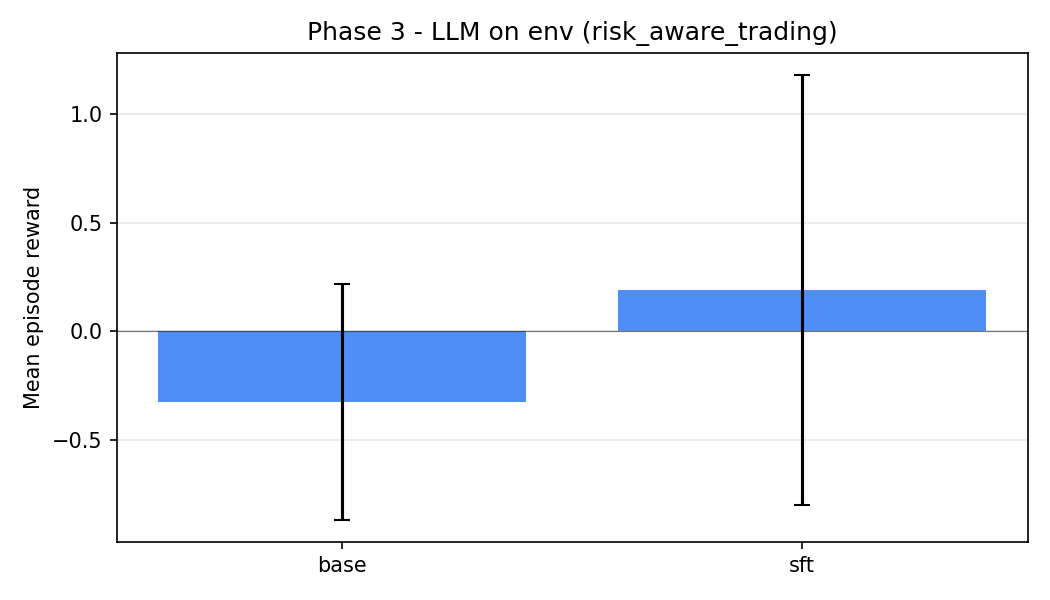
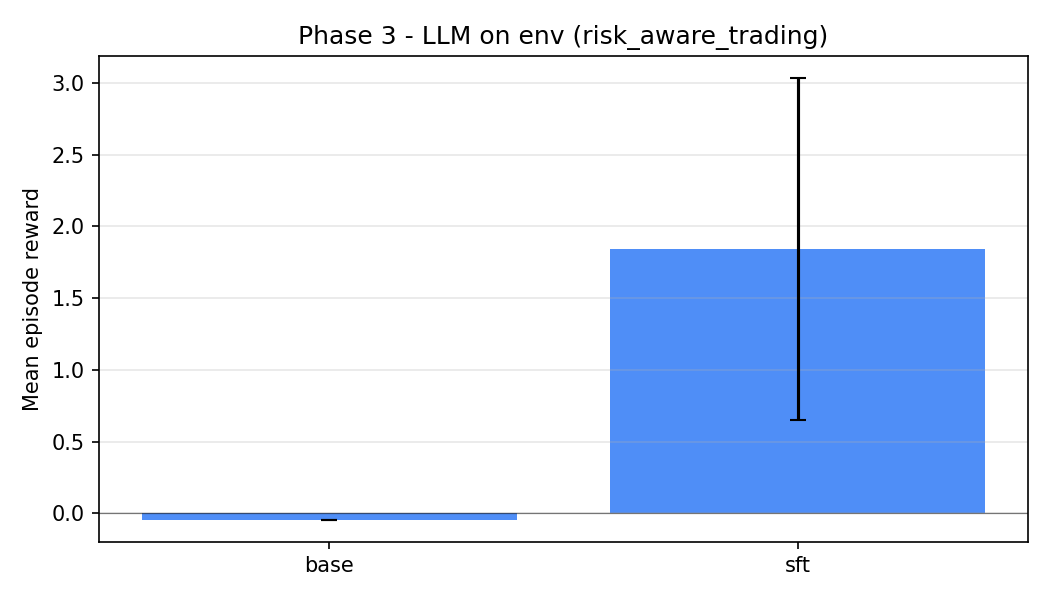
Phase 3 eval: SFT lifts mean reward -0.044 -> +1.844, final PV \ -> \; commit metrics + bar chart
Made-with: Cursor

diff --git a/README.md b/README.md
@@ -59,7 +59,9 @@ Single place for reviewers (mirrored in [`docs/MATERIALS.md`](docs/MATERIALS.md)
 
 1. **Problem:** LLMs need grounded, multi-step **decisions under market friction**, not one-shot financial text.  
 2. **Environment:** SPY bars + engineered features + portfolio state; **reset/step** API; episode sampling over held-out-style train split.  
-3. **Results:** See **Phase 4 (Results)** below — committed reward curves and [`results/phase4_metrics.md`](results/phase4_metrics.md).  
+3. **Results:**
+   - **Phase 3 (LLM SFT closes the loop):** trained adapter [`Kj2461/metaOpenNV-sft-qwen15`](https://huggingface.co/Kj2461/metaOpenNV-sft-qwen15) lifts mean episode reward from **−0.04 → +1.84** and final portfolio value from **$10 000 → $10 719** vs the un-tuned base of the *same* Qwen 1.5B model on `risk_aware_trading` (10 ep × 300 steps). Teacher agreement doubles (0.20 → 0.40); action distribution shifts from 100% HOLD to 77/23/0 HOLD/BUY/SELL. Full table: [`results/phase3_eval_metrics.md`](results/phase3_eval_metrics.md), bar chart: [`results/phase3_eval_bar.png`](results/phase3_eval_bar.png).
+   - **Phase 4 (classical baselines):** committed reward curves and [`results/phase4_metrics.md`](results/phase4_metrics.md).
 4. **Why it matters:** Improves **tool-like control** and **long-horizon consistency** for professional / assistant-style agents (see Phase 0 themes).
 
 ---
@@ -151,10 +153,7 @@ The submission training was driven entirely from a second Hugging Face Space (`K
 
 **Closing the loop — base vs fine-tuned on the live env**
 
-Once an adapter exists, [`scripts/eval_llm_on_env.py`](scripts/eval_llm_on_env.py) plays N episodes for each model and writes:
-
-- [`results/phase3_eval_metrics.md`](results/phase3_eval_metrics.md) — per-model mean episode reward, std, last-PV, action distribution, teacher-agreement.
-- [`results/phase3_eval_bar.png`](results/phase3_eval_bar.png) — bar chart of mean episode reward.
+[`scripts/eval_llm_on_env.py`](scripts/eval_llm_on_env.py) auto-detects PEFT adapters: it reads `adapter_config.json`, loads the listed `base_model_name_or_path`, and applies `PeftModel.from_pretrained` on top. Pass either an HF repo id (e.g. `Kj2461/metaOpenNV-sft-qwen15`) or a local TRL output dir. For dev without a running Space, add **`--local`** (same physics as `collect_sft_dataset --local`). Qwen tokenizers need **`sentencepiece`** (listed in `requirements-trl.txt`).
 
 ```bash
 python scripts/eval_llm_on_env.py \
@@ -162,7 +161,23 @@ python scripts/eval_llm_on_env.py \
   --episodes 10 --max-steps 300 --task-name risk_aware_trading --local
 ```
 
-The eval script auto-detects PEFT adapters: it reads `adapter_config.json`, loads the listed `base_model_name_or_path`, and applies `PeftModel.from_pretrained` on top. Pass either an HF repo id (e.g. `Kj2461/metaOpenNV-sft-qwen15`) or a local TRL output dir. For dev without a running Space, add **`--local`** (same physics as `collect_sft_dataset --local`). Qwen tokenizers need **`sentencepiece`** (listed in `requirements-trl.txt`).
+**Submission run (10 episodes × 300 steps, `risk_aware_trading`, `--local`, T4-medium):**
+
+| Model | Mean episode reward | Std | Last final PV | HOLD | BUY | SELL | Teacher agreement |
+|---|---:|---:|---:|---:|---:|---:|---:|
+| base (Qwen 1.5B Instruct, no SFT) | -0.0444 | 0.0000 | $10,000.00 | 100.0% | 0.0% | 0.0% | 0.201 |
+| **sft** (base + LoRA on env trajectories) | **+1.844** | 1.190 | **$10,718.64** | 77.2% | 22.6% | 0.1% | **0.401** |
+
+What changed after one epoch of SFT on 5,850 env rows:
+
+- **Reward**: base is stuck at the baseline penalty (it never trades); SFT lifts mean episode reward by **+1.89** with positive returns in 9/10 episodes (peak +3.87 reward / +31% PV).
+- **Action diversity**: base degenerates to 100% HOLD; SFT learns **77/23/0** HOLD/BUY/SELL — it actually deploys cash when the SMA20 / momentum signals line up.
+- **Teacher agreement**: jumps from **0.20 → 0.40** (2× the SMA20 trend teacher), even though the fine-tuned model is free to deviate from the teacher.
+- **Risk-side**: SFT shows higher variance than base (1.19 std vs 0.0) — that is the price of trading at all; one of 10 episodes ended below $10k. Track-H below addresses this with the richer prompt + composite teacher.
+
+Full table + bar chart auto-committed: [`results/phase3_eval_metrics.md`](results/phase3_eval_metrics.md), [`results/phase3_eval_bar.png`](results/phase3_eval_bar.png) (also mirrored on the model repo at `https://huggingface.co/Kj2461/metaOpenNV-sft-qwen15/tree/main/results`).
+
+![Phase 3 eval bar](results/phase3_eval_bar.png)
 
 **Track-H (richer prompt + bigger model, optional, paid GPU on HF or Colab):**
 

diff --git a/docs/MATERIALS.md b/docs/MATERIALS.md
@@ -14,7 +14,7 @@ Hackathon rules ask for **URLs**, not large binaries in the Space repo. Add ever
 | Phase 4 plots (PNG) | [`results/phase4_episode_return.png`](../results/phase4_episode_return.png), [`results/phase4_mean_return_bar.png`](../results/phase4_mean_return_bar.png) | Regenerate: `python -m eval.phase4_benchmark` |
 | Phase 3 trained adapter (Hub model) | https://huggingface.co/Kj2461/metaOpenNV-sft-qwen15 | LoRA r=16 on Qwen2.5-1.5B, T4-medium, 1 epoch on 5,850 rows |
 | Phase 3 TRL SFT loss | [`results/trl_sft_loss.png`](../results/trl_sft_loss.png) | Final loss 0.291, mean token acc 0.888 (initial 1.74 / 0.61) |
-| Phase 3 LLM-on-env metrics | [`results/phase3_eval_metrics.md`](../results/phase3_eval_metrics.md), [`results/phase3_eval_bar.png`](../results/phase3_eval_bar.png) | Regenerate: `python scripts/eval_llm_on_env.py --models base=Qwen/Qwen2.5-1.5B-Instruct sft=Kj2461/metaOpenNV-sft-qwen15 --local` |
+| Phase 3 LLM-on-env metrics | [`results/phase3_eval_metrics.md`](../results/phase3_eval_metrics.md), [`results/phase3_eval_bar.png`](../results/phase3_eval_bar.png) | base mean reward −0.044 / final PV $10,000; **sft mean reward +1.844 / final PV $10,718.64**; mirrored at `https://huggingface.co/Kj2461/metaOpenNV-sft-qwen15/tree/main/results`. Regenerate: `python scripts/eval_llm_on_env.py --models base=Qwen/Qwen2.5-1.5B-Instruct sft=Kj2461/metaOpenNV-sft-qwen15 --local` |
 | Phase 4 metrics table | [`results/phase4_metrics.md`](../results/phase4_metrics.md) | Committed |
 | Slides (Google Slides / PDF host) | *optional* | TBD |
 | Weights & Biases (or other) run | *optional — link to a specific run* | TBD |

diff --git a/results/phase3_eval_metrics.md b/results/phase3_eval_metrics.md
@@ -1,8 +1,9 @@
 # Phase 3 - LLM on env evaluation
 
-task=risk_aware_trading prompt=compact teacher=sma20 episodes=3
+task=risk_aware_trading prompt=compact teacher=sma20 episodes=10
 
 | Model | Mean episode reward | Std | Last final PV | HOLD | BUY | SELL | Teacher agreement |
 |---|---:|---:|---:|---:|---:|---:|---:|
-| base | -0.324662 | 0.542586 | 8840.13 | 99.6% | 0.4% | 0.0% | 0.196 |
-| sft | 0.189311 | 0.989850 | 10363.94 | 0.0% | 100.0% | 0.0% | 0.596 |
+| base | -0.044400 | 0.000000 | 10000.00 | 100.0% | 0.0% | 0.0% | 0.201 |
+| sft | 1.844074 | 1.190299 | 10718.64 | 77.2% | 22.6% | 0.1% | 0.401 |
+
